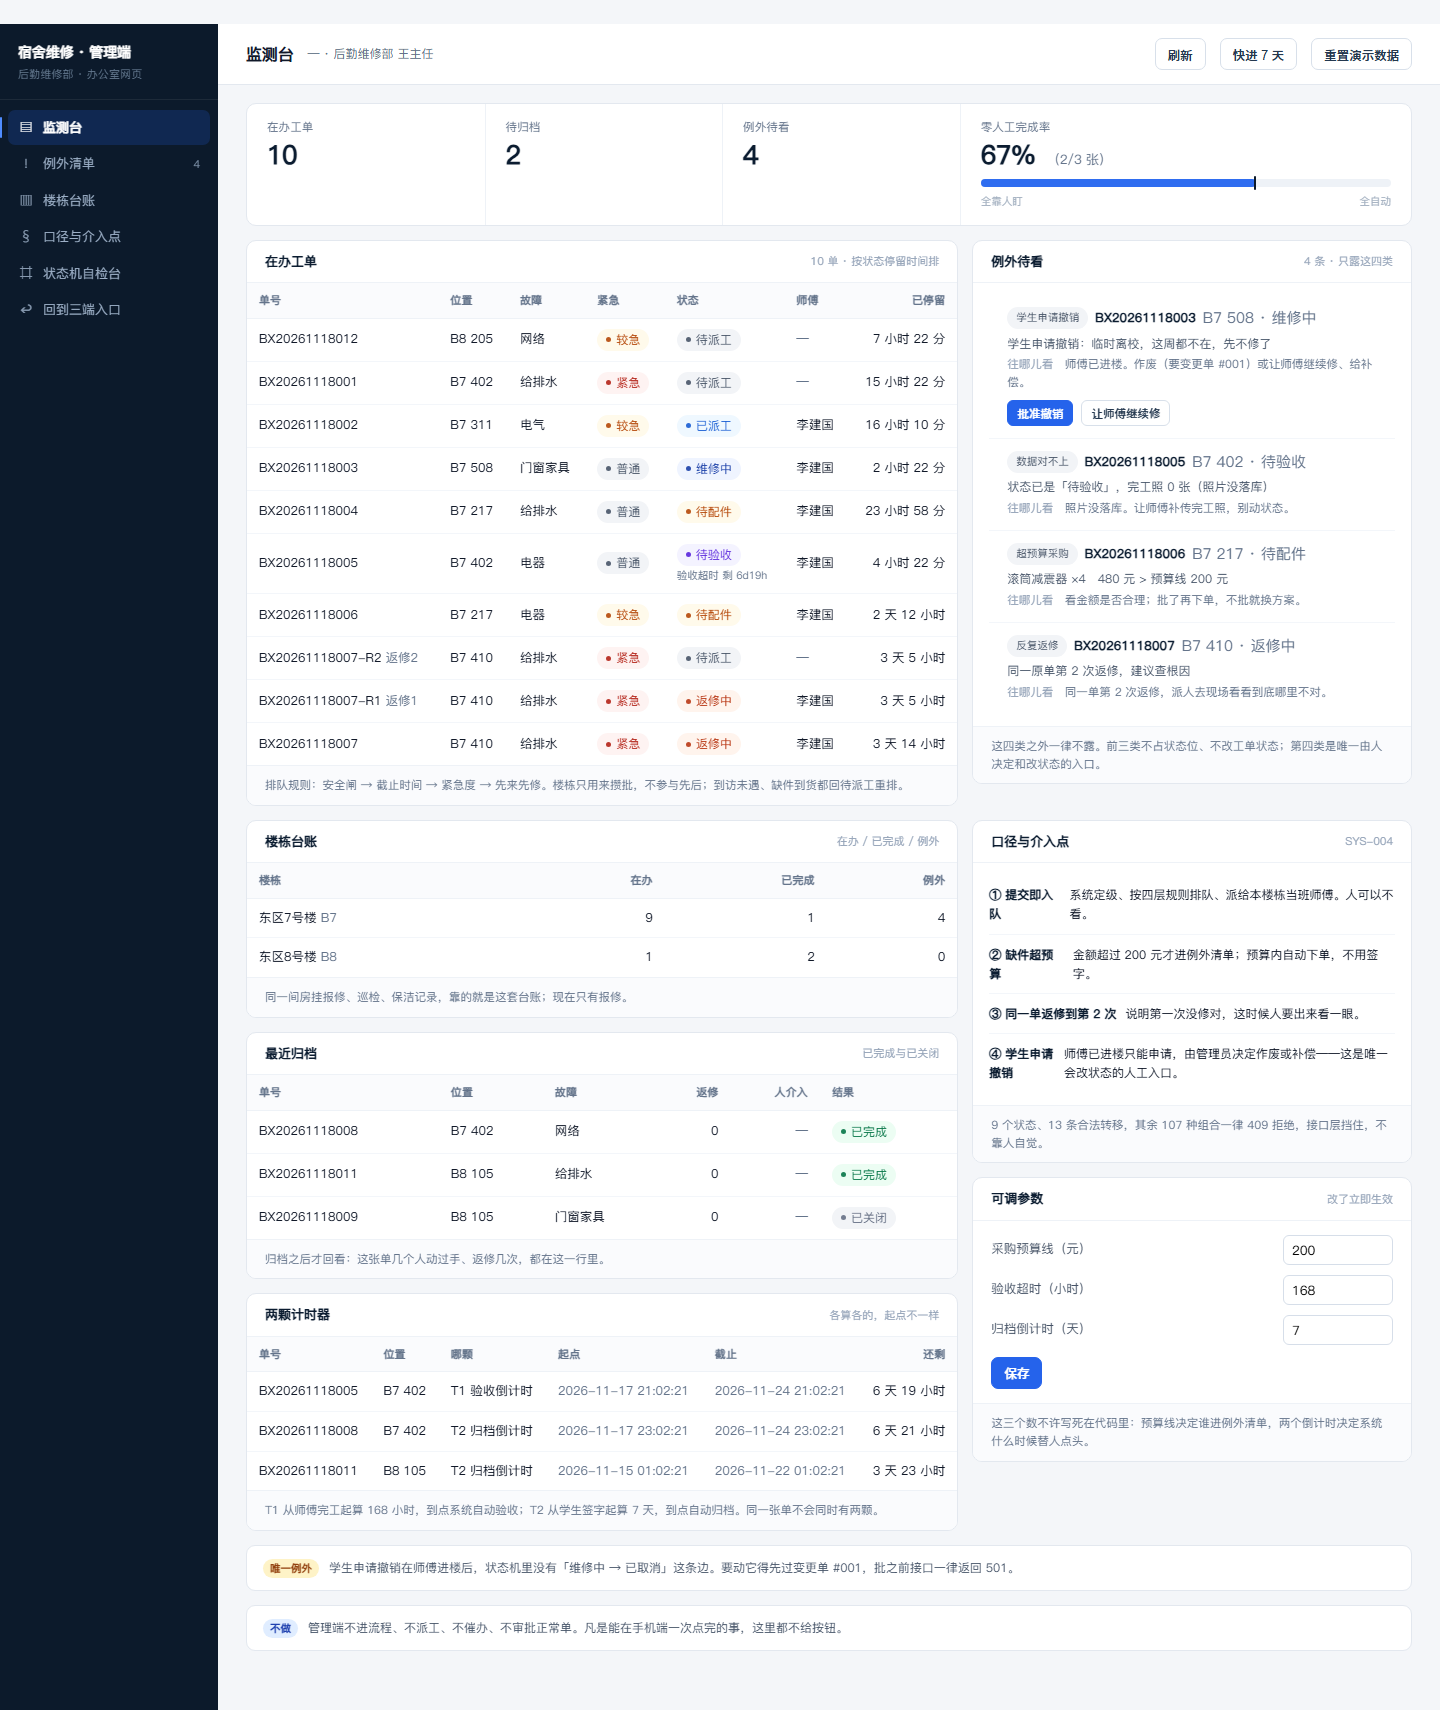
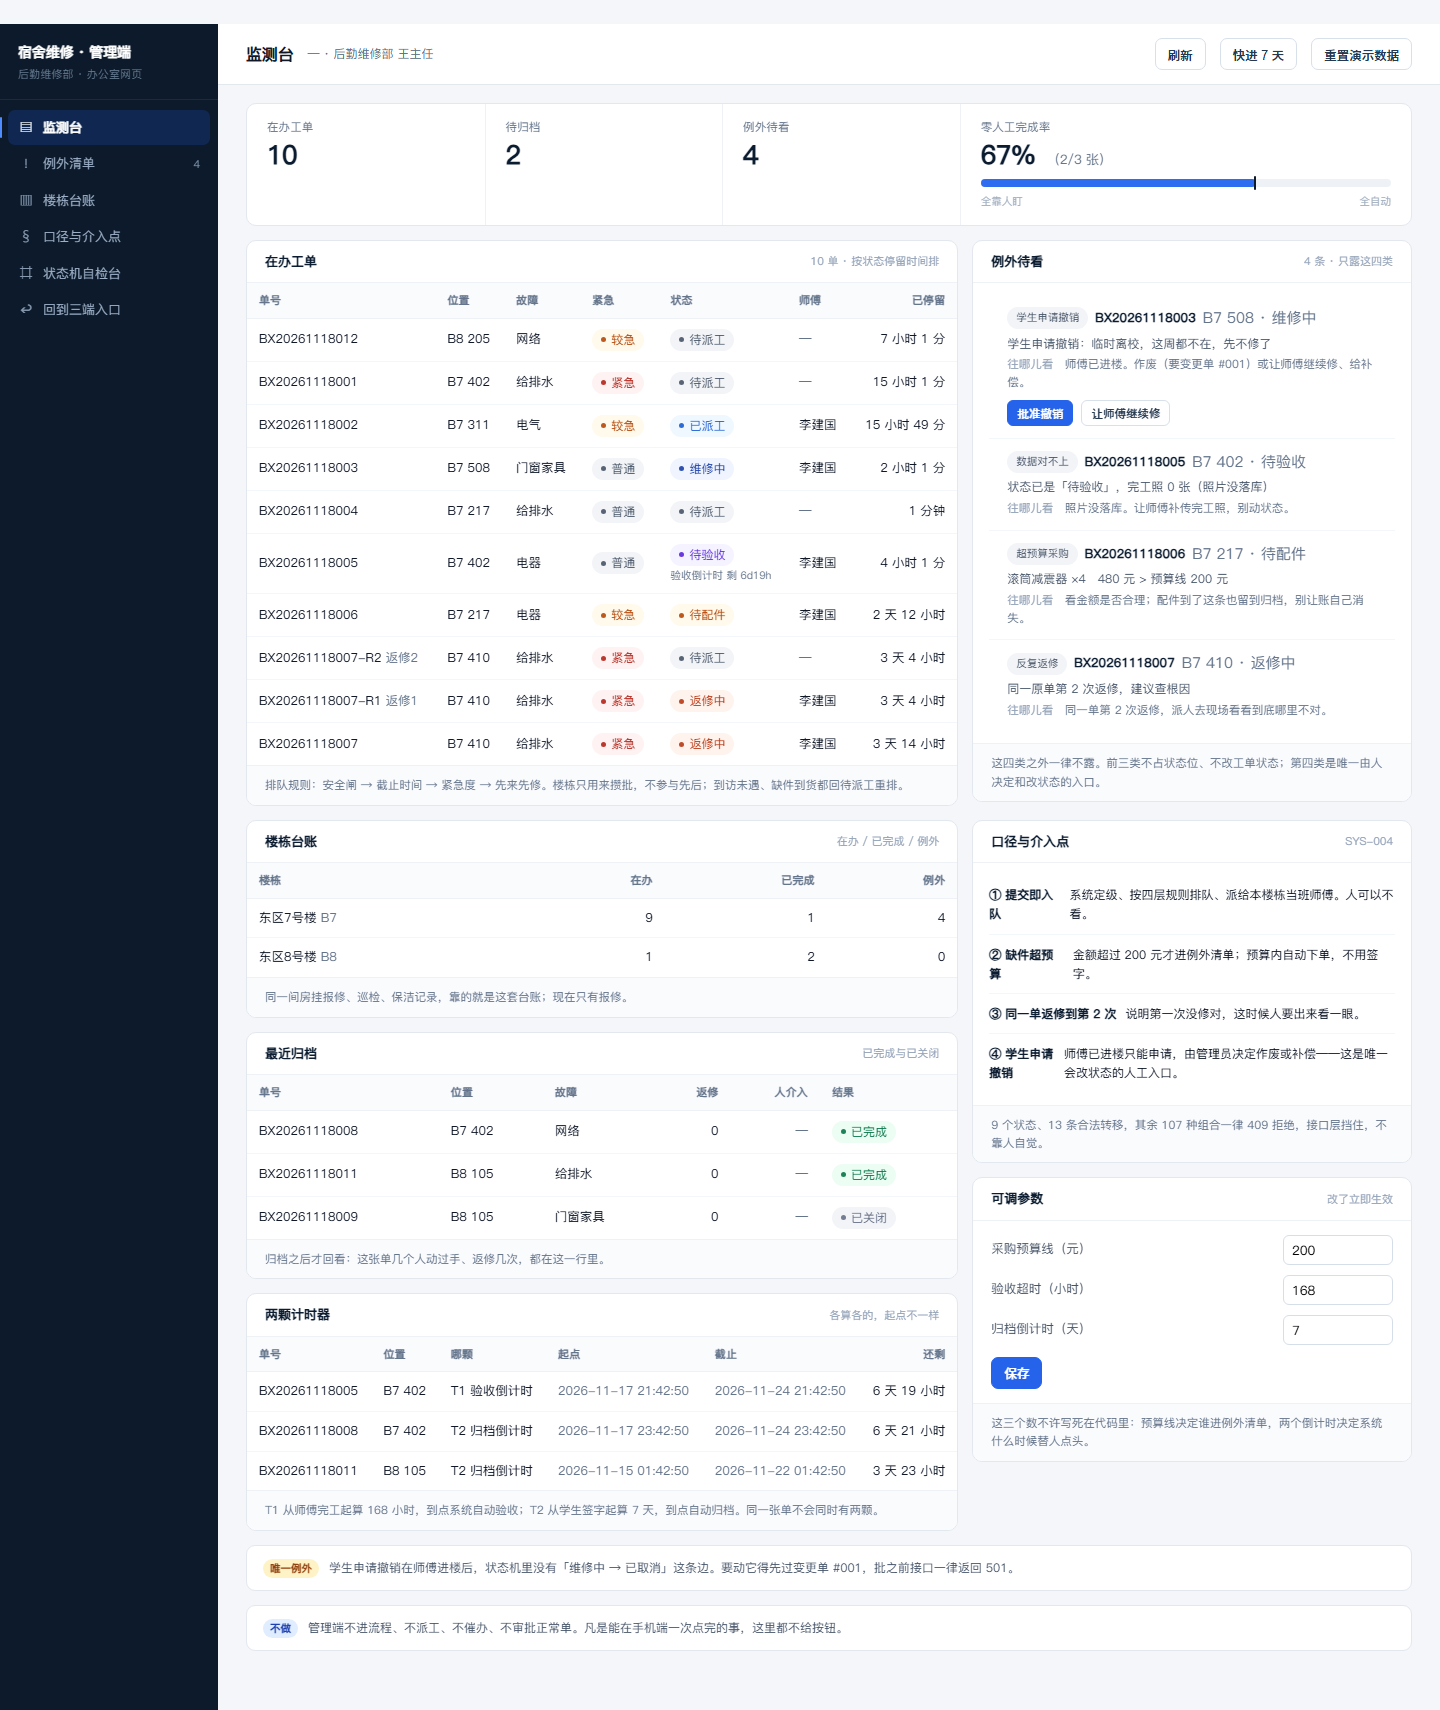
fix: 例外清单不再丢账 + 自检台分清 409 和 403
跑 r7.mjs 时撞出两个真问题：
1. 超预算采购那条记录只在 PARTS 状态才出现，配件一到货、单子回 PENDING
   就从清单上消失了——花过的钱等于自己消失，事后抽查对不上账。
   改成：非 CLOSED/CANCELLED 就一直留着，detail 里注明"配件已到、单已回队列"。
   例外清单的"看金额是否合理；批了再下单"也改成"配件到了这条也留到归档"。
2. 自检台"会被拒的事件"按钮一律用学生身份调，点 FINISH 拿到的是 403（角色不够），
   不是 409（状态机拒绝），和答辩脚本里说的话不符。
   改成按这条边本来的触发方去调：已派工的单点 FINISH = 409 + "工单一个字没动"；
   这单没师傅时按钮直接 disabled 并写明"只会得到 403 权限拒绝"。
   顺带把 409/403 的区别写到面板上，失败面板也补一行说明。

- 测试 G 组加断言：超预算单到货之后仍要在清单里
- 答辩脚本第 2 节改写（选已派工的单）、第 3 节补超预算留账
- README 补 409/403 与"花过就留着"
- 重拍 lab/admin/index 三张截图

diff --git a/app/web/lab.html b/app/web/lab.html
@@ -110,6 +110,7 @@ window.addEventListener('error', function (e) {
 <script>
 (async function () {
   let meta, MTX, TRS, ORDS = [], sel = null;
+  const TRIG = {};                   // 事件 → 合法触发方，从 13 条转移里反查
 
   const tokens = {};                 // id → token，按需登录，避免每次都要密码
   async function tokenFor(role, id) {
@@ -150,6 +151,7 @@ window.addEventListener('error', function (e) {
       App.api.get('/admin/orders?pageSize=200', { token: await tokenFor('admin', 'A001') })
     ]);
     MTX = m; TRS = t.transitions; ORDS = o.items;
+    for (const tr of TRS) TRIG[tr.event] = tr.trigger;   // 每个事件只出现一次，直接反查
 
     App.$('#meta').textContent = `${m.rows.length} 行 × ${m.rows[0].cells.length} 事件 = ${m.total} 种组合，其中 ${m.legal} 条合法`;
     renderMatrix();
@@ -186,8 +188,14 @@ window.addEventListener('error', function (e) {
 
     const deny = ['ASSIGN', 'ARRIVE', 'NO_SHOW', 'FINISH', 'NEED_PARTS', 'PARTS_ARRIVED', 'ACCEPT', 'REJECT', 'CANCEL']
       .filter(ev => !allow.some(t => t.event === ev));
-    App.$('#denyBox').innerHTML = deny.map(ev => `<button class="dbtn evbtn" data-bad="${ev}">
-      <b>${App.esc(ev)}</b><span>现在点应该被 409 拒</span></button>`).join('');
+    App.$('#denyBox').innerHTML = deny.map(ev => {
+      const role = (TRIG[ev] || ['student'])[0];
+      const noActor = role === 'worker' && !o.worker;
+      const hint = noActor ? '这单还没派师傅：只会得到 403 权限拒绝' : '现在点应该是 409 状态机拒绝';
+      return `<button class="dbtn evbtn" data-bad="${ev}" ${noActor ? 'disabled' : ''}>
+        <b>${App.esc(ev)}</b><span>${App.esc(hint)}</span></button>`;
+    }).join('') + `<div style="grid-column:1/-1;font-size:11px;color:#94a3b8;margin-top:2px">
+      409 = 状态机说这条边不存在；403 = 你这个身份不能调这个接口。两种都不是 200。</div>`;
 
     App.$('#allowBox').querySelectorAll('[data-ev]').forEach(b => b.onclick = () => push(b.dataset.ev, false));
     App.$('#denyBox').querySelectorAll('[data-bad]').forEach(b => b.onclick = () => push(b.dataset.bad, true));
@@ -196,8 +204,9 @@ window.addEventListener('error', function (e) {
   async function push(event, expectFail) {
     const o = cur();
     const t = TRS.find(x => x.from === o.status && x.event === event);
-    const role = t ? t.trigger[0] : (event === 'ASSIGN' || event === 'PARTS_ARRIVED' ? 'admin' : 'student');
-    const actorId = role === 'student' ? o.student.id : role === 'worker' ? o.worker.id : 'A001';
+    // 走不通的边也按"这条边本来的触发方"去调，才拿得到状态机的 409 而不是权限的 403
+    const role = t ? t.trigger[0] : (TRIG[event] ? TRIG[event][0] : 'admin');
+    const actorId = role === 'student' ? o.student.id : role === 'worker' ? (o.worker && o.worker.id) : 'A001';
     const path = '/orders/' + encodeURIComponent(o.no) + '/' + EP[event];
     const body = Object.assign({}, PAYLOAD[event] || {}, { version: o.version });
 
@@ -214,6 +223,9 @@ window.addEventListener('error', function (e) {
       if (d.reason) lines.push(`reason = <b>${App.esc(d.reason)}</b>`);
       if (d.allowed) lines.push('这单现在只能做：' + (d.allowed.length ? d.allowed.map(x => App.esc(x)).join(' / ') : '（什么都不能做）'));
       if (d.changeRequest) lines.push('要改状态得先过变更单 ' + App.esc(d.changeRequest));
+      lines.push(e.status === 403
+        ? `换身份没换成：${App.esc(role)} ${App.esc(actorId || '（这单没有这个身份）')} 调不了这个接口。`
+        : `工单一个字没动：仍是 <b>${App.esc(o.status)}</b>，version 仍是 ${o.version}。`);
       res(lines.join('<br>'), expectFail && e.status === 409 ? 'bad' : 'bad');
     }
   }

diff --git a/app/server/orders.js b/app/server/orders.js
@@ -638,8 +638,13 @@ function exceptions(db, kind = 'ALL') {
     if (['VERIFYING', 'DONE', 'CLOSED'].includes(o.status) && o.photosAfter.length === 0) {
       push(o, 'MISMATCH', `状态已是「${o.statusLabel}」，完工照 0 张（照片没落库）`, o.finishAt || o.statusAt);
     }
-    if (o.parts && Number(o.parts.amount) > Number(cfg.budgetLine) && o.status === 'PARTS') {
-      push(o, 'OVER_BUDGET', `${o.parts.name}　${o.parts.amount} 元 > 预算线 ${cfg.budgetLine} 元`, o.statusAt);
+    // 超预算采购：这件事发生过就是发生过，配件到了也还挂在清单上，
+    // 一直到工单归档（CLOSED）才交给"最近归档"和事后抽查去承接。
+    if (o.parts && Number(o.parts.amount) > Number(cfg.budgetLine) && !['CLOSED', 'CANCELLED'].includes(o.status)) {
+      const arrived = String(o.parts.status || '').toUpperCase() === 'ARRIVED';
+      push(o, 'OVER_BUDGET',
+        `${o.parts.name}　${o.parts.amount} 元 > 预算线 ${cfg.budgetLine} 元` + (arrived ? '（配件已到、单已回队列，这条留到归档）' : ''),
+        o.statusAt);
     }
     if ((o.reworkCount || 0) >= 2 && !o.reworkOf) {
       push(o, 'REPEAT_REWORK', `同一原单第 ${o.reworkCount} 次返修，建议查根因`, o.statusAt);

diff --git a/app/web/worker/parts.html b/app/web/worker/parts.html
@@ -65,7 +65,7 @@
           <div class="hd">
             <h2>${App.esc(o.building)} ${App.esc(o.room)} 室</h2>
             <div class="grow"></div>
-            ${over ? '<span class="pill lv" data-lv="较急">等管理员批</span>' : '<span class="pill lv" data-lv="普通">已下单</span>'}
+            ${over ? '<span class="pill lv" data-lv="较急">超预算·已进清单</span>' : '<span class="pill lv" data-lv="普通">已下单</span>'}
           </div>
           <div class="pd">
             <div style="font-size:14px;color:var(--ink-2);margin-bottom:10px">${App.esc(o.desc)}</div>
@@ -81,7 +81,7 @@
             </div>
           </div>
           <div class="ft">${over
-            ? `超预算要管理员批——批了才能下单，这正是管理端"例外清单"里的那一条。`
+            ? `超 ${meta.budgetLine} 元线：这单已经进了管理端「例外清单」，事后抽查就查这一条。货到照常收，账一直留到归档。`
             : `预算线内不用人批，商家直接下单。到货后这单会回队列，重新派给你，紧急度不降。`}</div>
         </div>`;
       }).join('')}

diff --git a/app/web/admin/index.html b/app/web/admin/index.html
@@ -254,7 +254,7 @@ window.addEventListener('error', function (e) {
   function exRow(x) {
     const then = {
       MISMATCH: '照片没落库。让师傅补传完工照，别动状态。',
-      OVER_BUDGET: '看金额是否合理；批了再下单，不批就换方案。',
+      OVER_BUDGET: '看金额是否合理；配件到了这条也留到归档，别让账自己消失。',
       REPEAT_REWORK: '同一单第 2 次返修，派人去现场看看到底哪里不对。',
       CANCEL_REQUEST: '师傅已进楼。作废（要变更单 #001）或让师傅继续修、给补偿。'
     }[x.kind] || '';

diff --git a/docs/04_项目管理/答辩演示脚本.md b/docs/04_项目管理/答辩演示脚本.md
@@ -45,11 +45,13 @@
 
 回到 **/lab.html**：
 
-1. 上面选中一张"待派工"的单，左列「会被拒的事件」里点 **FINISH**
-2. 返回体里明确写着：`409`、`reason`、`allowed: ["ASSIGN","CANCEL"]`、以及"这单现在只能做这两件事"
-3. 然后点一次「重新取一遍表」——**这张单的状态还是"待派工"，version 没动**
+1. 下拉里选一张 **「已派工」** 的单（不是待派工——待派工没有师傅，点师傅的按钮只会拿到 403 权限拒绝，那是另一件事）
+2. 左列「会被拒的事件」里点 **FINISH**：按钮上就写着"现在点应该是 409 状态机拒绝"
+3. 结果面板明确显示：`HTTP 409`、`状态「已派工」不接受事件「完工提交」`、`这单现在只能做：ARRIVE / NO_SHOW / CANCEL`，最后一行还替你把话说了：**工单一个字没动：仍是 ASSIGNED，version 仍是 2**
+4. 再点一次「重新取一遍表」——状态与 version 都没动
 
 > 说一句："页面里没有一处 `status = ...` 赋值，改状态只有一条路：先查这张表，查不到就抛 409。
+> 顺便把两种拒绝分清：**409 是状态机说这条边不存在，403 是身份不够**，都不是 200。
 > 这就是为什么这套东西不会出现'单子莫名其妙变成已完成'。"
 
 **再补一刀（可选）：** 同一张单快速连点两次"派工"，第二次会拿到 `409 VERSION_CONFLICT`「状态已变化，请刷新」——乐观锁。
@@ -63,11 +65,12 @@
 1. 四个数字：在办 / 待归档 / 例外待看 / **零人工完成率**
 2. 右栏「例外待看」只有四类：数据对不上、超预算采购、反复返修、学生申请撤销 —— **其余一律不露**
 3. 点「学生申请撤销」那条的「批准撤销」→ 页面提示 **接口返回 501：这条边要等变更单 #001 批准**
+4. 「超预算采购」那条：480 元 > 200 元线。**把配件收下（`/worker/parts`），这条记录仍然留着**——花过的钱不会因为流程往前走就自己消失，一直到单子归档
 
 > 说一句："唯一需要人点头的地方，我们把它的接口故意留在 501。
 > 因为我们发现 `维修中 → 已取消` 这条边在状态机里是禁止的——要开它必须先过变更单，不能偷偷加。"
 
-4. 再点顶栏「快进 7 天」→ toast 报 "自动验收 X 单、自动归档 Y 单"；回到监测台，待归档清了、最近归档多了几行
+5. 再点顶栏「快进 7 天」→ toast 报 "自动验收 X 单、自动归档 Y 单"；回到监测台，待归档清了、最近归档多了几行
 
 > 说一句："管理端大部分时间应该是空的。它一忙，说明流程在漏。"
 
@@ -87,7 +90,7 @@
 |---|---|
 | 页面打不开 | 先看终端有没有跑起来；`node app/server/index.js` 一条命令重启，数据在 SQLite 里不会丢 |
 | 数据被点乱了 | 入口页「重置演示数据」，回到 14 张单 11 个账号 |
-| 想证明后端而不是页面 | `node --no-warnings app/server/tests/api.test.js`，当场看 `pass 16 / fail 0` |
+| 想证明后端而不是页面 | `node --no-warnings app/server/tests/api.test.js`，当场看 `pass 17 / fail 0` |
 | 想证明原型也能跑 | `node prototype/tests/selftest.js prototype`，当场看 `34 通过 / 0 失败` |
 | 被问"这是前端硬编码的吧" | 打开 `/lab.html` 改一个事件，或断网刷新页面——数据全来自 `/api/v1`，前端没有一份假数据 |
 

diff --git a/README.md b/README.md
@@ -77,7 +77,7 @@ node app/server/index.js
 
 | 要证明的事 | 一条命令 / 一个页面 |
 |---|---|
-| 13 条转移能走、107 种组合当场 409 | 打开 `/lab.html`，随便点事件；或 `node --no-warnings app/server/tests/api.test.js` → `pass 17 / fail 0` |
+| 13 条转移能走、107 种组合当场 409 | 打开 `/lab.html`，选一张「已派工」的单点 FINISH（**409 是状态机拒绝，403 是身份不够**，按钮上就写着会是哪一种）；或 `node --no-warnings app/server/tests/api.test.js` → `pass 17 / fail 0` |
 | 非法转移**被拒之后单子一个字没变** | 测试里的 `snapshot()` 断言；自检台里点「会被拒的事件」看返回体 |
 | 两颗 7 天计时器互不干扰 | 管理端「两颗计时器」面板；或点「快进 7 天」看 T1 自动验收、T2 自动归档 |
 | 返修是新单 `-R1`、紧急度升一档 | 学生端在待验收单上点「还没修好」 |
@@ -133,7 +133,8 @@ node app/server/index.js
 - 两颗 7 天计时器各算各的：T1 起点 `finishAt`、T2 起点 `signAt`，快进 8 天两件事分别发生；
 - 返修生成 `-R1` 新单、指回原单、紧急度升一档；返修单验收通过时原单级联关闭；
 - 楼栋级打卡 = 一次点击背后 N 条单级 `ARRIVE`，师傅不生成本、状态机语义不破；
-- 例外清单只出约定那四类（数据对不上 / 超预算采购 / 反复返修 / 学生申请撤销）。
+- 例外清单只出约定那四类（数据对不上 / 超预算采购 / 反复返修 / 学生申请撤销）；
+- 超预算那笔账**花过就留着**：配件到货、单子回队列之后，这条记录仍在清单里，一直到归档——不然事后抽查对不上账。
 
 仍不能证明（诚实写在前面）：
 
